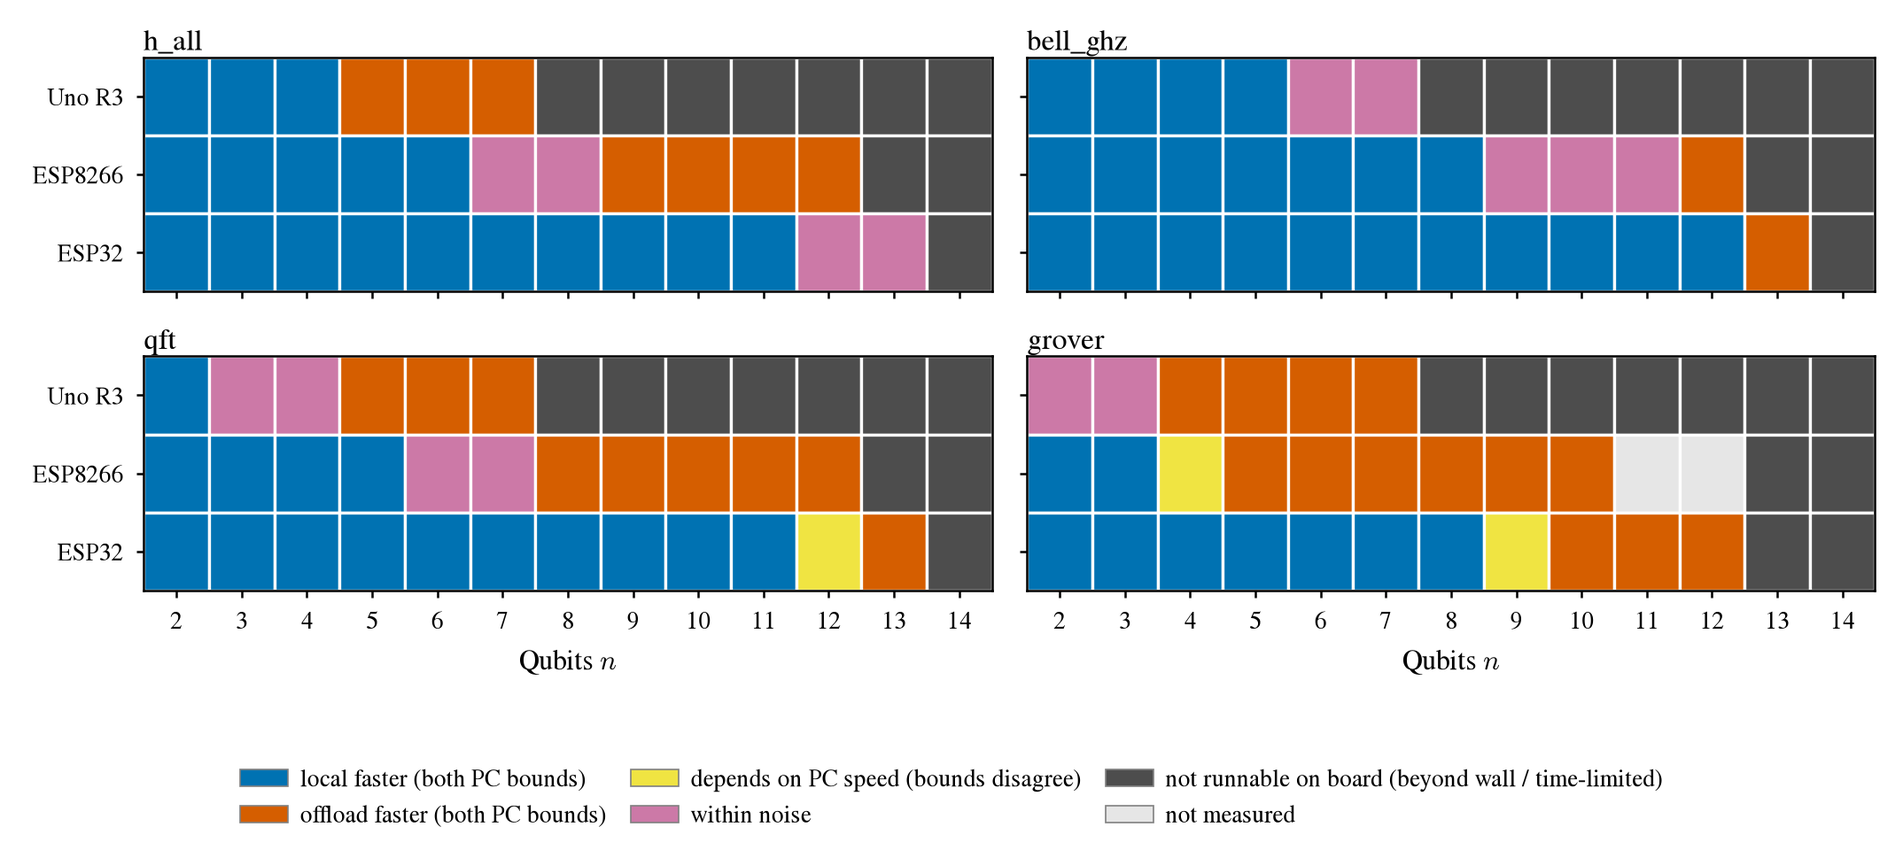
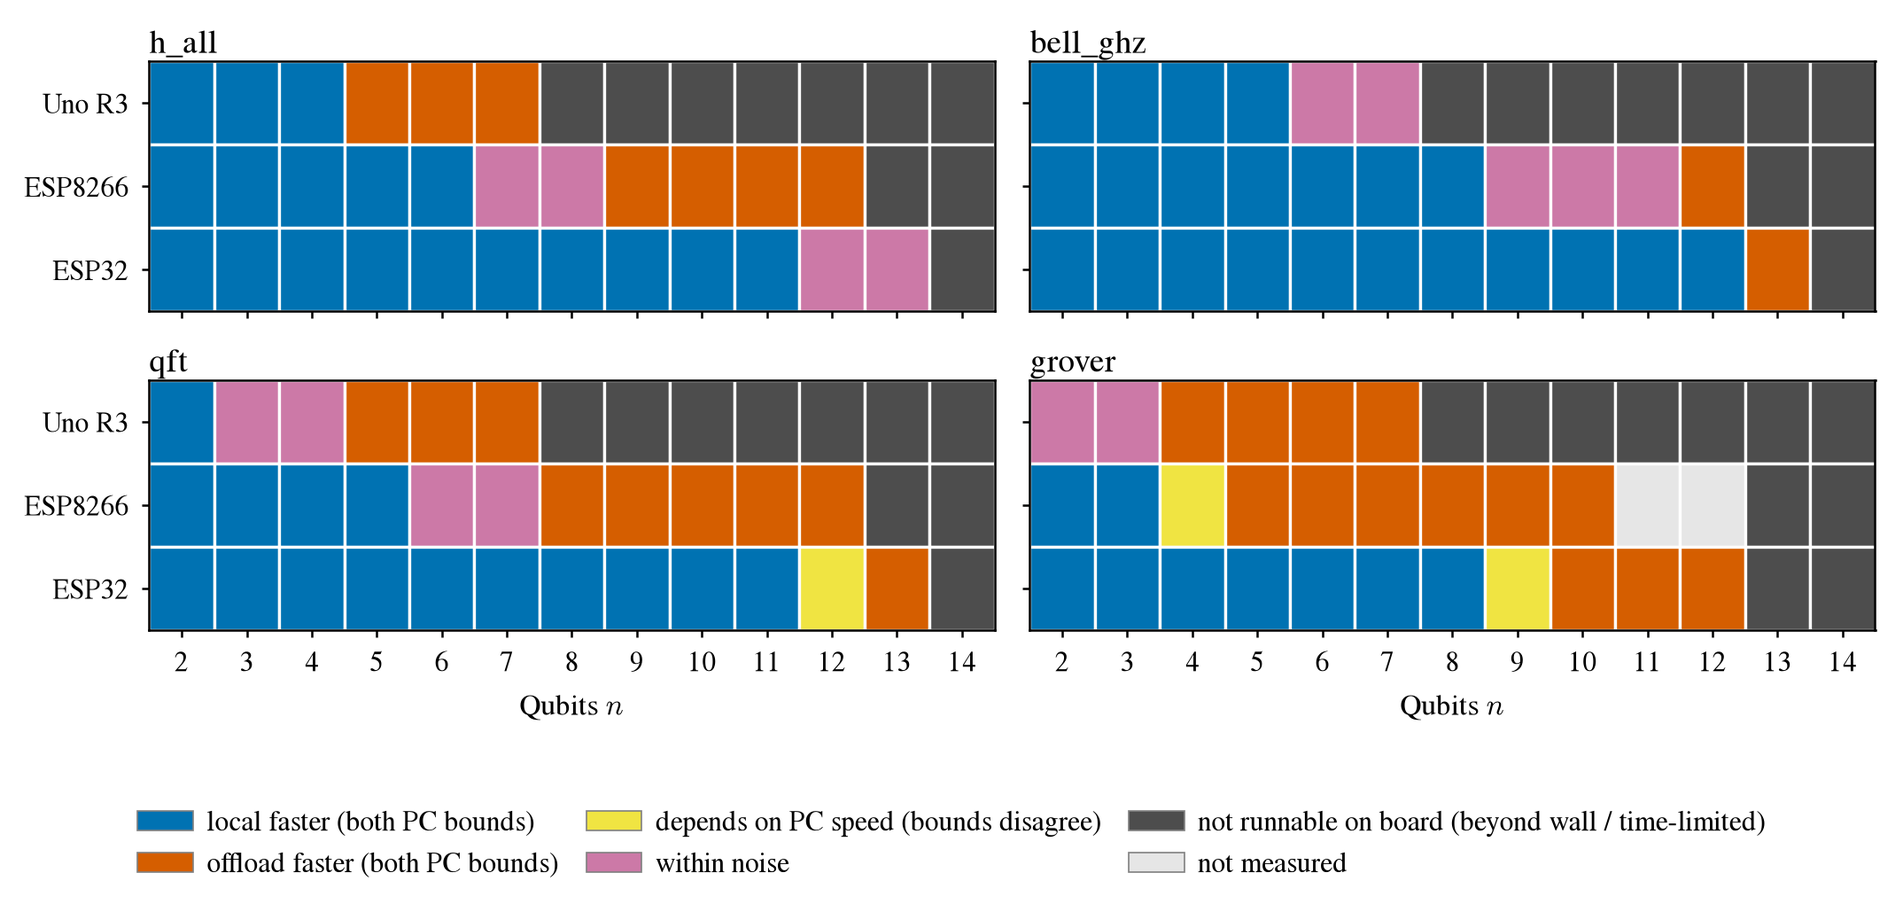
docs, figures: report equation table carries the paper's equation numbers; decision map text sizes

diff --git a/analysis/phase4/build_report.py b/analysis/phase4/build_report.py
@@ -680,18 +680,18 @@ R13 = f"""
 
 Notation: n qubits, board b, circuit c; B = bytes available for the state; G_c(n) = gate calls; N_(c,k)(n) = gate calls of kind k in H, CNOT, CPHASE.
 
-| no. | equation | code (file:line) | check |
+| no. (numbering of the paper) | equation | code (file:line) | check |
 |---|---|---|---|
-| (1) | M(n) = {TO.AMP_BYTES} x 2^n bytes (complex float32 = two 4-byte floats) | `firmware/common/qsim.hpp:30-33` (struct Cplx), `analysis/phase4/model.py:58-63` | **match** |
-| (2) | n_max = floor(log2(B / {TO.AMP_BYTES})) | `analysis/phase4/model.py:58` | **differed in B**: B is not "the largest contiguous free block" on every board. Uno: B = 2048 B minus the compiler-reported static use (`model.py:51`); ESP8266: total free heap read after the allocation at n = 2 (`model.py:53`); ESP32: two candidates, the total free heap and the largest free block (`model.py:55-56`); only the largest block matches the wall, the total free heap is one qubit too high (section 3). The formula itself matches |
-| (3) | M1: T_local(n) = c_b x G_c(n) x 2^n | `analysis/phase4/timemodel.py:102-106` (fit), `:153` (prediction), `analysis/phase4/gatecount.py:76-78` (work) | **match**; G_c counts every gate call of every kind, the init sweep is not counted; c_b is fitted per board on relative error and shared by the circuits |
-| (4) | M2: T_local(n) = sum_k c_(b,k) N_(c,k)(n) 2^n + a_b G_c(n), k in H, CNOT, CPHASE | `analysis/phase4/timemodel.py:108-114` (columns x_h, x_cn, x_cp, x_g), `:154` | **match**; the coefficients are non-negative (NNLS) on relative error, shared by the circuits of a board; the per-call term is a_b times the total number of gate calls G_c = N_H + N_CNOT + N_CPHASE |
-| (5) | gate counts: h_all: G = n; bell_ghz: 1 H + (n-1) CNOT, G = n; qft: n H + n(n-1)/2 CPHASE; grover: n H + k(n) x [2 G_mcp(n-1) + 6n H + 2n CPHASE], G_mcp(1) = 1, G_mcp(k) = 8 x 3^(k-2) - 3 for k >= 2, so G_grover = n + k(n) (16 x 3^(n-3) + 8n - 6) for n >= 3; k(n) = max(floor(pi/4 sqrt(2^n)), 1) in float32 | `analysis/phase4/gatecount.py:35-73` (recursion, `mc_phase`, `mc_x`), `:50-54` (k), `firmware/common/circuits.hpp:20-25, 33-39, 53-61, 80-83, 108-135, 152-181` | **match** for the recursion (52 of 52 (circuit, n) pairs equal the unmodified header run in C++, section 4); the **closed forms are derived here, not in the code**, and are checked against the code for n = 2..14 in `tradeoff_test.py` |
-| (6) | T_wire = {TO.BITS_PER_BYTE} x L_frame / baud, L_frame = request + response = {_wire_bytes:g} bytes per request (4 + 6) | `analysis/phase4/offload_band.py:31-33` (`t_wire_us`, used at the point loop), `pc/phase3_offload/sweep.py:246` (request frame 4 B), `:263` (response 6 B); {TO.BITS_PER_BYTE} bit per byte = 8N1 | **match** (the pipeline uses bytes_transferred / requests of the point, which equals L_frame) |
-| (7) | T_off(n) = T_wire + T_res,b + T_pc,c(n) | `analysis/phase4/offload_band.py:60` (residual), `:65-72` (PC range), `:83-84` (band) | **differed**: T_res is the per-point residual of the board's selected session, e2e median - PC simulation median - wire (not one constant per board), and T_pc is not one value: the band is T_wire + T_res + [min, max] of the PC simulation time observed over every Phase 3 session of every board at that circuit and n; the parts are medians of one point and do not add exactly. The predicted crossover (13.3) is the exception: it uses one T_res,b per board = the median residual of the points with a PC simulation below {TO.SMALL_SIM_US / 1000:.0f} ms (`tradeoff.residual_constants`) |
-| (8) | crossover: n* = smallest in-scope n from which T_local(n) > T_off(n), as a bracket (n_lo, n_hi) of two measured n, once for T_pc min and once for T_pc max | `analysis/phase4/offload_band.py:94-109` | **differed**: the code compares the local **median** with the band edge and takes n_hi = the first measured n from which offload is faster (strictly) **at every larger measured n** (an isolated earlier crossing does not count); n_lo = the previous measured n; "below" if offload is already faster at the smallest measured n; "none" if never; no interpolation, no extrapolation |
-| (9) | MAPE = 100 x mean over held-out points of abs(T_pred - T_meas) / T_meas | `analysis/phase4/timemodel.py:138-139` | **match** (point-weighted over the non-weak held-out points) |
-| (10) | P(marked) = sin^2((2k+1) theta), theta = asin(1 / sqrt(2^n)) | `analysis/phase4/grover_diagnosis.py:49-51, 74` | **match**; k is the firmware's iteration count (float32), not the exact optimum |
+| (1) (paper Eq. 1) | M(n) = {TO.AMP_BYTES} x 2^n bytes (complex float32 = two 4-byte floats) | `firmware/common/qsim.hpp:30-33` (struct Cplx), `analysis/phase4/model.py:58-63` | **match** |
+| (2) (paper Eq. 1) | n_max = floor(log2(B / {TO.AMP_BYTES})) | `analysis/phase4/model.py:58` | **differed in B**: B is not "the largest contiguous free block" on every board. Uno: B = 2048 B minus the compiler-reported static use (`model.py:51`); ESP8266: total free heap read after the allocation at n = 2 (`model.py:53`); ESP32: two candidates, the total free heap and the largest free block (`model.py:55-56`); only the largest block matches the wall, the total free heap is one qubit too high (section 3). The formula itself matches |
+| (3) (paper Eq. 2) | M1: T_local(n) = c_b x G_c(n) x 2^n | `analysis/phase4/timemodel.py:102-106` (fit), `:153` (prediction), `analysis/phase4/gatecount.py:76-78` (work) | **match**; G_c counts every gate call of every kind, the init sweep is not counted; c_b is fitted per board on relative error and shared by the circuits |
+| (4) (paper Eq. 3) | M2: T_local(n) = sum_k c_(b,k) N_(c,k)(n) 2^n + a_b G_c(n), k in H, CNOT, CPHASE | `analysis/phase4/timemodel.py:108-114` (columns x_h, x_cn, x_cp, x_g), `:154` | **match**; the coefficients are non-negative (NNLS) on relative error, shared by the circuits of a board; the per-call term is a_b times the total number of gate calls G_c = N_H + N_CNOT + N_CPHASE |
+| (5) (paper Eq. 4) | gate counts: h_all: G = n; bell_ghz: 1 H + (n-1) CNOT, G = n; qft: n H + n(n-1)/2 CPHASE; grover: n H + k(n) x [2 G_mcp(n-1) + 6n H + 2n CPHASE], G_mcp(1) = 1, G_mcp(k) = 8 x 3^(k-2) - 3 for k >= 2, so G_grover = n + k(n) (16 x 3^(n-3) + 8n - 6) for n >= 3; k(n) = max(floor(pi/4 sqrt(2^n)), 1) in float32 | `analysis/phase4/gatecount.py:35-73` (recursion, `mc_phase`, `mc_x`), `:50-54` (k), `firmware/common/circuits.hpp:20-25, 33-39, 53-61, 80-83, 108-135, 152-181` | **match** for the recursion (52 of 52 (circuit, n) pairs equal the unmodified header run in C++, section 4); the **closed forms are derived here, not in the code**, and are checked against the code for n = 2..14 in `tradeoff_test.py` |
+| (6) (paper Eq. 6) | T_wire = {TO.BITS_PER_BYTE} x L_frame / baud, L_frame = request + response = {_wire_bytes:g} bytes per request (4 + 6) | `analysis/phase4/offload_band.py:31-33` (`t_wire_us`, used at the point loop), `pc/phase3_offload/sweep.py:246` (request frame 4 B), `:263` (response 6 B); {TO.BITS_PER_BYTE} bit per byte = 8N1 | **match** (the pipeline uses bytes_transferred / requests of the point, which equals L_frame) |
+| (7) (paper Eq. 6) | T_off(n) = T_wire + T_res,b + T_pc,c(n) | `analysis/phase4/offload_band.py:60` (residual), `:65-72` (PC range), `:83-84` (band) | **differed**: T_res is the per-point residual of the board's selected session, e2e median - PC simulation median - wire (not one constant per board), and T_pc is not one value: the band is T_wire + T_res + [min, max] of the PC simulation time observed over every Phase 3 session of every board at that circuit and n; the parts are medians of one point and do not add exactly. The predicted crossover (13.3) is the exception: it uses one T_res,b per board = the median residual of the points with a PC simulation below {TO.SMALL_SIM_US / 1000:.0f} ms (`tradeoff.residual_constants`) |
+| (8) (paper Eq. 7) | crossover: n* = smallest in-scope n from which T_local(n) > T_off(n), as a bracket (n_lo, n_hi) of two measured n, once for T_pc min and once for T_pc max | `analysis/phase4/offload_band.py:94-109` | **differed**: the code compares the local **median** with the band edge and takes n_hi = the first measured n from which offload is faster (strictly) **at every larger measured n** (an isolated earlier crossing does not count); n_lo = the previous measured n; "below" if offload is already faster at the smallest measured n; "none" if never; no interpolation, no extrapolation |
+| (9) (paper Eq. 5) | MAPE = 100 x mean over held-out points of abs(T_pred - T_meas) / T_meas | `analysis/phase4/timemodel.py:138-139` | **match** (point-weighted over the non-weak held-out points) |
+| (10) (paper Eq. 8) | P(marked) = sin^2((2k+1) theta), theta = asin(1 / sqrt(2^n)) | `analysis/phase4/grover_diagnosis.py:49-51, 74` | **match**; k is the firmware's iteration count (float32), not the exact optimum |
 
 I did not change the analysis to match the wording of the equations; where the code differs (rows 2, 7, 8) the paper uses the code's definition.
 

diff --git a/analysis/paper/make_numbers.py b/analysis/paper/make_numbers.py
@@ -338,10 +338,67 @@ def flag(r, bd):
 
 xrows = []
 order = {"uno": 0, "esp8266": 1, "esp32": 2}
+cp = rd(P, "crossover_predicted.csv")                       # tradeoff.py: M1 / M2 predicted brackets (added after the data were seen)
+SYM = {"match": "$=$", "off by one": "$\\pm1$", "off by more": "$\\ge2$"}
+
+
+def model_cell(r):
+    g = cp[(cp.board == r.board) & (cp.circuit == r.circuit)].set_index("bound")
+    st = g.model_status.iloc[0]
+    if st == "no model":
+        return "--"
+    if st == "not identifiable":
+        return "n/i"
+    return f"{SYM[g.loc['fast', 'cmp_M2']]} / {SYM[g.loc['slow', 'cmp_M2']]}"
+
+
 for r in sorted(xo.itertuples(), key=lambda r: (order[r.board], CIRC.index(r.circuit))):
-    xrows.append(f"{NAME[r.board]} & {r.circuit.replace('_', chr(92) + '_')} & {int(r.n_first)}--{int(r.n_last)} & {brk(r, 'fast')}{flag(r, 'fast')} & {brk(r, 'slow')}{flag(r, 'slow')} \\\\")
+    xrows.append(f"{NAME[r.board]} & {r.circuit.replace('_', chr(92) + '_')} & {int(r.n_first)}--{int(r.n_last)} & {brk(r, 'fast')}{flag(r, 'fast')} & {brk(r, 'slow')}{flag(r, 'slow')} & {model_cell(r)} \\\\")
 open(os.path.join(OUT, "tables", "crossover.tex"), "w").write(
-    "\\begin{tabular}{@{}llccc@{}}\n\\toprule\nBoard & Circuit & Measured $n$ & Fast sim. & Slow sim. \\\\\n\\midrule\n" + "\n".join(xrows) + "\n\\bottomrule\n\\end{tabular}\n")
+    "\\begin{tabular}{@{}llcccc@{}}\n\\toprule\nBoard & Circuit & Measured $n$ & Fast sim. & Slow sim. & M2 vs measured \\\\\n\\midrule\n" + "\n".join(xrows) + "\n\\bottomrule\n\\end{tabular}\n")
+
+# how far the bracket moves between the fast and the slow PC bound (pairs with a crossover under both bounds)
+_sh = xo[xo.fast_kind.isin(["bracket", "below"]) & xo.slow_kind.isin(["bracket", "below"])]
+_d = (_sh.n_slow_hi - _sh.n_fast_hi).astype(int)
+put("ShiftN", len(_sh))
+put("ShiftSame", int((_d == 0).sum()))
+put("ShiftOne", int((_d == 1).sum()))
+put("ShiftMore", int((_d > 1).sum()))
+put("ShiftMax", int(_d.max()))
+# predicted crossover (M1 / M2 plus the offload equation; series with an identifiable M2 and at least one fit point only)
+ok_ = cp[cp.model_status == "ok"]
+put("PredSeriesOk", int(ok_.drop_duplicates(["board", "circuit"]).shape[0]))
+put("PredSeriesNI", int(cp[cp.model_status == "not identifiable"].drop_duplicates(["board", "circuit"]).shape[0]))
+put("PredSeriesNoModel", int(cp[cp.model_status == "no model"].drop_duplicates(["board", "circuit"]).shape[0]))
+put("PredN", len(ok_))
+for mod, tag in (("M2", "Two"), ("M1", "One")):
+    put("PredMatch" + tag, int((ok_["cmp_" + mod] == "match").sum()))
+    put("PredOffOne" + tag, int((ok_["cmp_" + mod] == "off by one").sum()))
+    put("PredOffMore" + tag, int((ok_["cmp_" + mod] == "off by more").sum()))
+put("PredEnds", int(ok_.bracket_ends.sum()))
+put("PredEndsHeld", int(ok_.bracket_ends_held_out.sum()))
+# band check and decision map
+bc = rd(P, "band_check.csv")
+put("BandRatioMin", f"{bc.groupby('circuit').ratio.max().min():.1f}")
+put("BandRatioMax", f"{bc.groupby('circuit').ratio.max().max():.1f}")
+put("BandTolPct", 10)       # BAND_TOL in analysis/phase4/plot_crossover_by_circuit.py
+dc = rd(P, "decision_cells.csv")
+for k, tag in (("local", "Local"), ("offload", "Offload"), ("depends", "Depends"), ("noise", "Noise"), ("norun", "NoRun"), ("nomeas", "NoMeas")):
+    put("MapN" + tag, int((dc.cell == k).sum()))
+put("MapNCells", len(dc))
+# offload breakdown (ESP32): shares of the round trip
+bk = rd(P, "offload_band.csv")
+bk = bk[bk.board == "esp32"].assign(res0=lambda d: d.residual_us.clip(lower=0))
+bk["tot"] = bk.wire_us + bk.res0 + bk.pc_sim_us
+non_g = bk[bk.circuit != "grover"]
+put("BreakWirePct", f0((non_g.wire_us / non_g.tot).median() * 100))
+put("BreakResPct", f0((non_g.res0 / non_g.tot).median() * 100))
+bg = bk[bk.circuit == "grover"].sort_values("n")
+sh = (bg.pc_sim_us / bg.tot).to_numpy()
+ns_g = bg.n.to_numpy()
+PC_SHARE = 0.9       # "the PC simulation dominates" = at least this share of the round trip
+put("BreakPcShare", int(round(PC_SHARE * 100)))
+put("BreakPcGroverN", int(next(ns_g[i] for i in range(len(sh)) if (sh[i:] >= PC_SHARE).all())))
 
 # ------------------------------------------------------------------ reproducibility
 r2 = rep[rep.phase == 2]

diff --git a/analysis/phase4/plot_decision_map.py b/analysis/phase4/plot_decision_map.py
@@ -30,7 +30,7 @@ ORDER = [TO.LOCAL, TO.OFFLOAD, TO.DEPENDS, TO.NOISE, TO.NORUN, TO.NOMEAS]
 def main():
     cells = TO.cells()
     cells.to_csv(os.path.join(C.PROC, "decision_cells.csv"), index=False)
-    fig, axs = plt.subplots(2, 2, figsize=(MF.W2, 3.2), sharex=True, sharey=True)
+    fig, axs = plt.subplots(2, 2, figsize=(MF.W2, 3.4), sharex=True, sharey=True)
     ns = TO.GRID_N
     for ax, c in zip(axs.flat, C.CIRCUITS):
         for yi, b in enumerate(C.BOARDS):
@@ -44,13 +44,13 @@ def main():
         ax.set_xticklabels(ns)
         ax.set_yticks(range(len(C.BOARDS)))
         ax.set_yticklabels([C.BOARD_LABEL[b] for b in C.BOARDS])
-        ax.tick_params(length=2)
-        ax.set_title(c, fontsize=8, loc="left", pad=2)
+        ax.tick_params(length=2, labelsize=7.5)
+        ax.set_title(c, fontsize=9, loc="left", pad=2)
     for ax in axs[1]:
-        ax.set_xlabel("Qubits $n$")
+        ax.set_xlabel("Qubits $n$", fontsize=8)
     from matplotlib.patches import Patch
     hs = [Patch(facecolor=PAL[k], edgecolor="0.5", lw=0.4, label=TO.CELL_LABEL[k]) for k in ORDER]
-    fig.legend(handles=hs, loc="lower center", ncol=3, frameon=False, bbox_to_anchor=(0.5, 0.0), columnspacing=1.0, handletextpad=0.5)
+    fig.legend(handles=hs, loc="lower center", ncol=3, frameon=False, bbox_to_anchor=(0.5, 0.0), columnspacing=1.0, handletextpad=0.5, fontsize=7.5)
     fig.tight_layout(rect=(0, 0.17, 1, 1))
     MF.save(fig, "F6_decision_map")
     print("wrote figures/phase4/F6_decision_map;", cells.cell.value_counts().to_dict())

diff --git a/docs/phase4_report.md b/docs/phase4_report.md
@@ -443,18 +443,18 @@ Unchanged: memory predictions and walls, gate counts, Phase 1 raw table.
 
 Notation: n qubits, board b, circuit c; B = bytes available for the state; G_c(n) = gate calls; N_(c,k)(n) = gate calls of kind k in H, CNOT, CPHASE.
 
-| no. | equation | code (file:line) | check |
+| no. (numbering of the paper) | equation | code (file:line) | check |
 |---|---|---|---|
-| (1) | M(n) = 8 x 2^n bytes (complex float32 = two 4-byte floats) | `firmware/common/qsim.hpp:30-33` (struct Cplx), `analysis/phase4/model.py:58-63` | **match** |
-| (2) | n_max = floor(log2(B / 8)) | `analysis/phase4/model.py:58` | **differed in B**: B is not "the largest contiguous free block" on every board. Uno: B = 2048 B minus the compiler-reported static use (`model.py:51`); ESP8266: total free heap read after the allocation at n = 2 (`model.py:53`); ESP32: two candidates, the total free heap and the largest free block (`model.py:55-56`); only the largest block matches the wall, the total free heap is one qubit too high (section 3). The formula itself matches |
-| (3) | M1: T_local(n) = c_b x G_c(n) x 2^n | `analysis/phase4/timemodel.py:102-106` (fit), `:153` (prediction), `analysis/phase4/gatecount.py:76-78` (work) | **match**; G_c counts every gate call of every kind, the init sweep is not counted; c_b is fitted per board on relative error and shared by the circuits |
-| (4) | M2: T_local(n) = sum_k c_(b,k) N_(c,k)(n) 2^n + a_b G_c(n), k in H, CNOT, CPHASE | `analysis/phase4/timemodel.py:108-114` (columns x_h, x_cn, x_cp, x_g), `:154` | **match**; the coefficients are non-negative (NNLS) on relative error, shared by the circuits of a board; the per-call term is a_b times the total number of gate calls G_c = N_H + N_CNOT + N_CPHASE |
-| (5) | gate counts: h_all: G = n; bell_ghz: 1 H + (n-1) CNOT, G = n; qft: n H + n(n-1)/2 CPHASE; grover: n H + k(n) x [2 G_mcp(n-1) + 6n H + 2n CPHASE], G_mcp(1) = 1, G_mcp(k) = 8 x 3^(k-2) - 3 for k >= 2, so G_grover = n + k(n) (16 x 3^(n-3) + 8n - 6) for n >= 3; k(n) = max(floor(pi/4 sqrt(2^n)), 1) in float32 | `analysis/phase4/gatecount.py:35-73` (recursion, `mc_phase`, `mc_x`), `:50-54` (k), `firmware/common/circuits.hpp:20-25, 33-39, 53-61, 80-83, 108-135, 152-181` | **match** for the recursion (52 of 52 (circuit, n) pairs equal the unmodified header run in C++, section 4); the **closed forms are derived here, not in the code**, and are checked against the code for n = 2..14 in `tradeoff_test.py` |
-| (6) | T_wire = 10 x L_frame / baud, L_frame = request + response = 10 bytes per request (4 + 6) | `analysis/phase4/offload_band.py:31-33` (`t_wire_us`, used at the point loop), `pc/phase3_offload/sweep.py:246` (request frame 4 B), `:263` (response 6 B); 10 bit per byte = 8N1 | **match** (the pipeline uses bytes_transferred / requests of the point, which equals L_frame) |
-| (7) | T_off(n) = T_wire + T_res,b + T_pc,c(n) | `analysis/phase4/offload_band.py:60` (residual), `:65-72` (PC range), `:83-84` (band) | **differed**: T_res is the per-point residual of the board's selected session, e2e median - PC simulation median - wire (not one constant per board), and T_pc is not one value: the band is T_wire + T_res + [min, max] of the PC simulation time observed over every Phase 3 session of every board at that circuit and n; the parts are medians of one point and do not add exactly. The predicted crossover (13.3) is the exception: it uses one T_res,b per board = the median residual of the points with a PC simulation below 20 ms (`tradeoff.residual_constants`) |
-| (8) | crossover: n* = smallest in-scope n from which T_local(n) > T_off(n), as a bracket (n_lo, n_hi) of two measured n, once for T_pc min and once for T_pc max | `analysis/phase4/offload_band.py:94-109` | **differed**: the code compares the local **median** with the band edge and takes n_hi = the first measured n from which offload is faster (strictly) **at every larger measured n** (an isolated earlier crossing does not count); n_lo = the previous measured n; "below" if offload is already faster at the smallest measured n; "none" if never; no interpolation, no extrapolation |
-| (9) | MAPE = 100 x mean over held-out points of abs(T_pred - T_meas) / T_meas | `analysis/phase4/timemodel.py:138-139` | **match** (point-weighted over the non-weak held-out points) |
-| (10) | P(marked) = sin^2((2k+1) theta), theta = asin(1 / sqrt(2^n)) | `analysis/phase4/grover_diagnosis.py:49-51, 74` | **match**; k is the firmware's iteration count (float32), not the exact optimum |
+| (1) (paper Eq. 1) | M(n) = 8 x 2^n bytes (complex float32 = two 4-byte floats) | `firmware/common/qsim.hpp:30-33` (struct Cplx), `analysis/phase4/model.py:58-63` | **match** |
+| (2) (paper Eq. 1) | n_max = floor(log2(B / 8)) | `analysis/phase4/model.py:58` | **differed in B**: B is not "the largest contiguous free block" on every board. Uno: B = 2048 B minus the compiler-reported static use (`model.py:51`); ESP8266: total free heap read after the allocation at n = 2 (`model.py:53`); ESP32: two candidates, the total free heap and the largest free block (`model.py:55-56`); only the largest block matches the wall, the total free heap is one qubit too high (section 3). The formula itself matches |
+| (3) (paper Eq. 2) | M1: T_local(n) = c_b x G_c(n) x 2^n | `analysis/phase4/timemodel.py:102-106` (fit), `:153` (prediction), `analysis/phase4/gatecount.py:76-78` (work) | **match**; G_c counts every gate call of every kind, the init sweep is not counted; c_b is fitted per board on relative error and shared by the circuits |
+| (4) (paper Eq. 3) | M2: T_local(n) = sum_k c_(b,k) N_(c,k)(n) 2^n + a_b G_c(n), k in H, CNOT, CPHASE | `analysis/phase4/timemodel.py:108-114` (columns x_h, x_cn, x_cp, x_g), `:154` | **match**; the coefficients are non-negative (NNLS) on relative error, shared by the circuits of a board; the per-call term is a_b times the total number of gate calls G_c = N_H + N_CNOT + N_CPHASE |
+| (5) (paper Eq. 4) | gate counts: h_all: G = n; bell_ghz: 1 H + (n-1) CNOT, G = n; qft: n H + n(n-1)/2 CPHASE; grover: n H + k(n) x [2 G_mcp(n-1) + 6n H + 2n CPHASE], G_mcp(1) = 1, G_mcp(k) = 8 x 3^(k-2) - 3 for k >= 2, so G_grover = n + k(n) (16 x 3^(n-3) + 8n - 6) for n >= 3; k(n) = max(floor(pi/4 sqrt(2^n)), 1) in float32 | `analysis/phase4/gatecount.py:35-73` (recursion, `mc_phase`, `mc_x`), `:50-54` (k), `firmware/common/circuits.hpp:20-25, 33-39, 53-61, 80-83, 108-135, 152-181` | **match** for the recursion (52 of 52 (circuit, n) pairs equal the unmodified header run in C++, section 4); the **closed forms are derived here, not in the code**, and are checked against the code for n = 2..14 in `tradeoff_test.py` |
+| (6) (paper Eq. 6) | T_wire = 10 x L_frame / baud, L_frame = request + response = 10 bytes per request (4 + 6) | `analysis/phase4/offload_band.py:31-33` (`t_wire_us`, used at the point loop), `pc/phase3_offload/sweep.py:246` (request frame 4 B), `:263` (response 6 B); 10 bit per byte = 8N1 | **match** (the pipeline uses bytes_transferred / requests of the point, which equals L_frame) |
+| (7) (paper Eq. 6) | T_off(n) = T_wire + T_res,b + T_pc,c(n) | `analysis/phase4/offload_band.py:60` (residual), `:65-72` (PC range), `:83-84` (band) | **differed**: T_res is the per-point residual of the board's selected session, e2e median - PC simulation median - wire (not one constant per board), and T_pc is not one value: the band is T_wire + T_res + [min, max] of the PC simulation time observed over every Phase 3 session of every board at that circuit and n; the parts are medians of one point and do not add exactly. The predicted crossover (13.3) is the exception: it uses one T_res,b per board = the median residual of the points with a PC simulation below 20 ms (`tradeoff.residual_constants`) |
+| (8) (paper Eq. 7) | crossover: n* = smallest in-scope n from which T_local(n) > T_off(n), as a bracket (n_lo, n_hi) of two measured n, once for T_pc min and once for T_pc max | `analysis/phase4/offload_band.py:94-109` | **differed**: the code compares the local **median** with the band edge and takes n_hi = the first measured n from which offload is faster (strictly) **at every larger measured n** (an isolated earlier crossing does not count); n_lo = the previous measured n; "below" if offload is already faster at the smallest measured n; "none" if never; no interpolation, no extrapolation |
+| (9) (paper Eq. 5) | MAPE = 100 x mean over held-out points of abs(T_pred - T_meas) / T_meas | `analysis/phase4/timemodel.py:138-139` | **match** (point-weighted over the non-weak held-out points) |
+| (10) (paper Eq. 8) | P(marked) = sin^2((2k+1) theta), theta = asin(1 / sqrt(2^n)) | `analysis/phase4/grover_diagnosis.py:49-51, 74` | **match**; k is the firmware's iteration count (float32), not the exact optimum |
 
 I did not change the analysis to match the wording of the equations; where the code differs (rows 2, 7, 8) the paper uses the code's definition.
 
